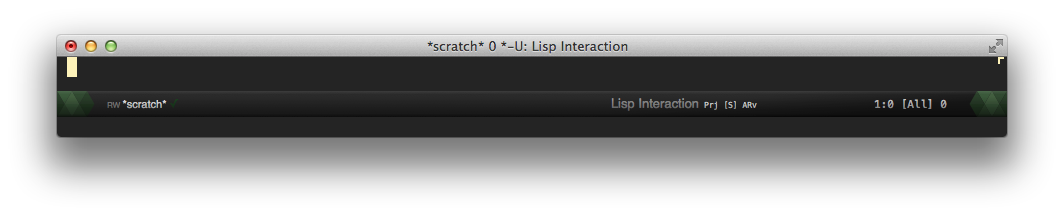
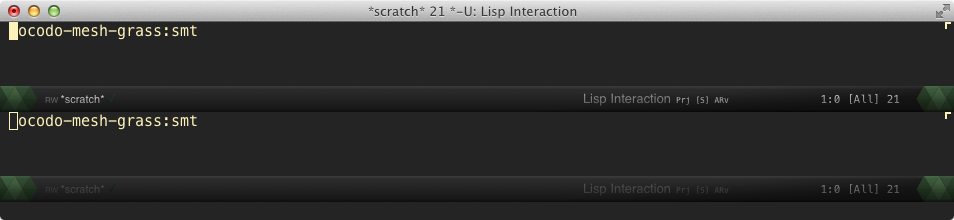
Update screenshots to show active / inactive state

diff --git a/README.md b/README.md
@@ -14,31 +14,31 @@ attempt to cater to you.
 
 ## What have I got for you so far?
 
-##### ocodo-kawaii-light-smt
+### ocodo-kawaii-light:smt
 
 ![](screenshots/ocodo-kawaii-light-smt.png)
 
-##### ocodo-minimal-light-smt
+### ocodo-minimal-light:smt
 
 ![](screenshots/ocodo-minimal-light-smt.png)
 
-##### ocodo-minimal-dark-smt
+### ocodo-minimal-dark:smt
 
 ![](screenshots/ocodo-minimal-dark-smt.png)
 
-##### ocodo-mesh-grass-smt
+### ocodo-mesh-grass:smt
 
 ![](screenshots/ocodo-mesh-grass-smt.png)
 
-##### ocodo-mesh-aqua-smt
+### ocodo-mesh-aqua:smt
 
 ![](screenshots/ocodo-mesh-aqua-smt.png)
 
-##### ocodo-steps-grass-smt
+### ocodo-steps-grass:smt
 
 ![](screenshots/ocodo-steps-grass-smt.png)
 
-##### ocodo-steps-aqua-smt
+### ocodo-steps-aqua:smt
 
 ![](screenshots/ocodo-steps-aqua-smt.png)
 
